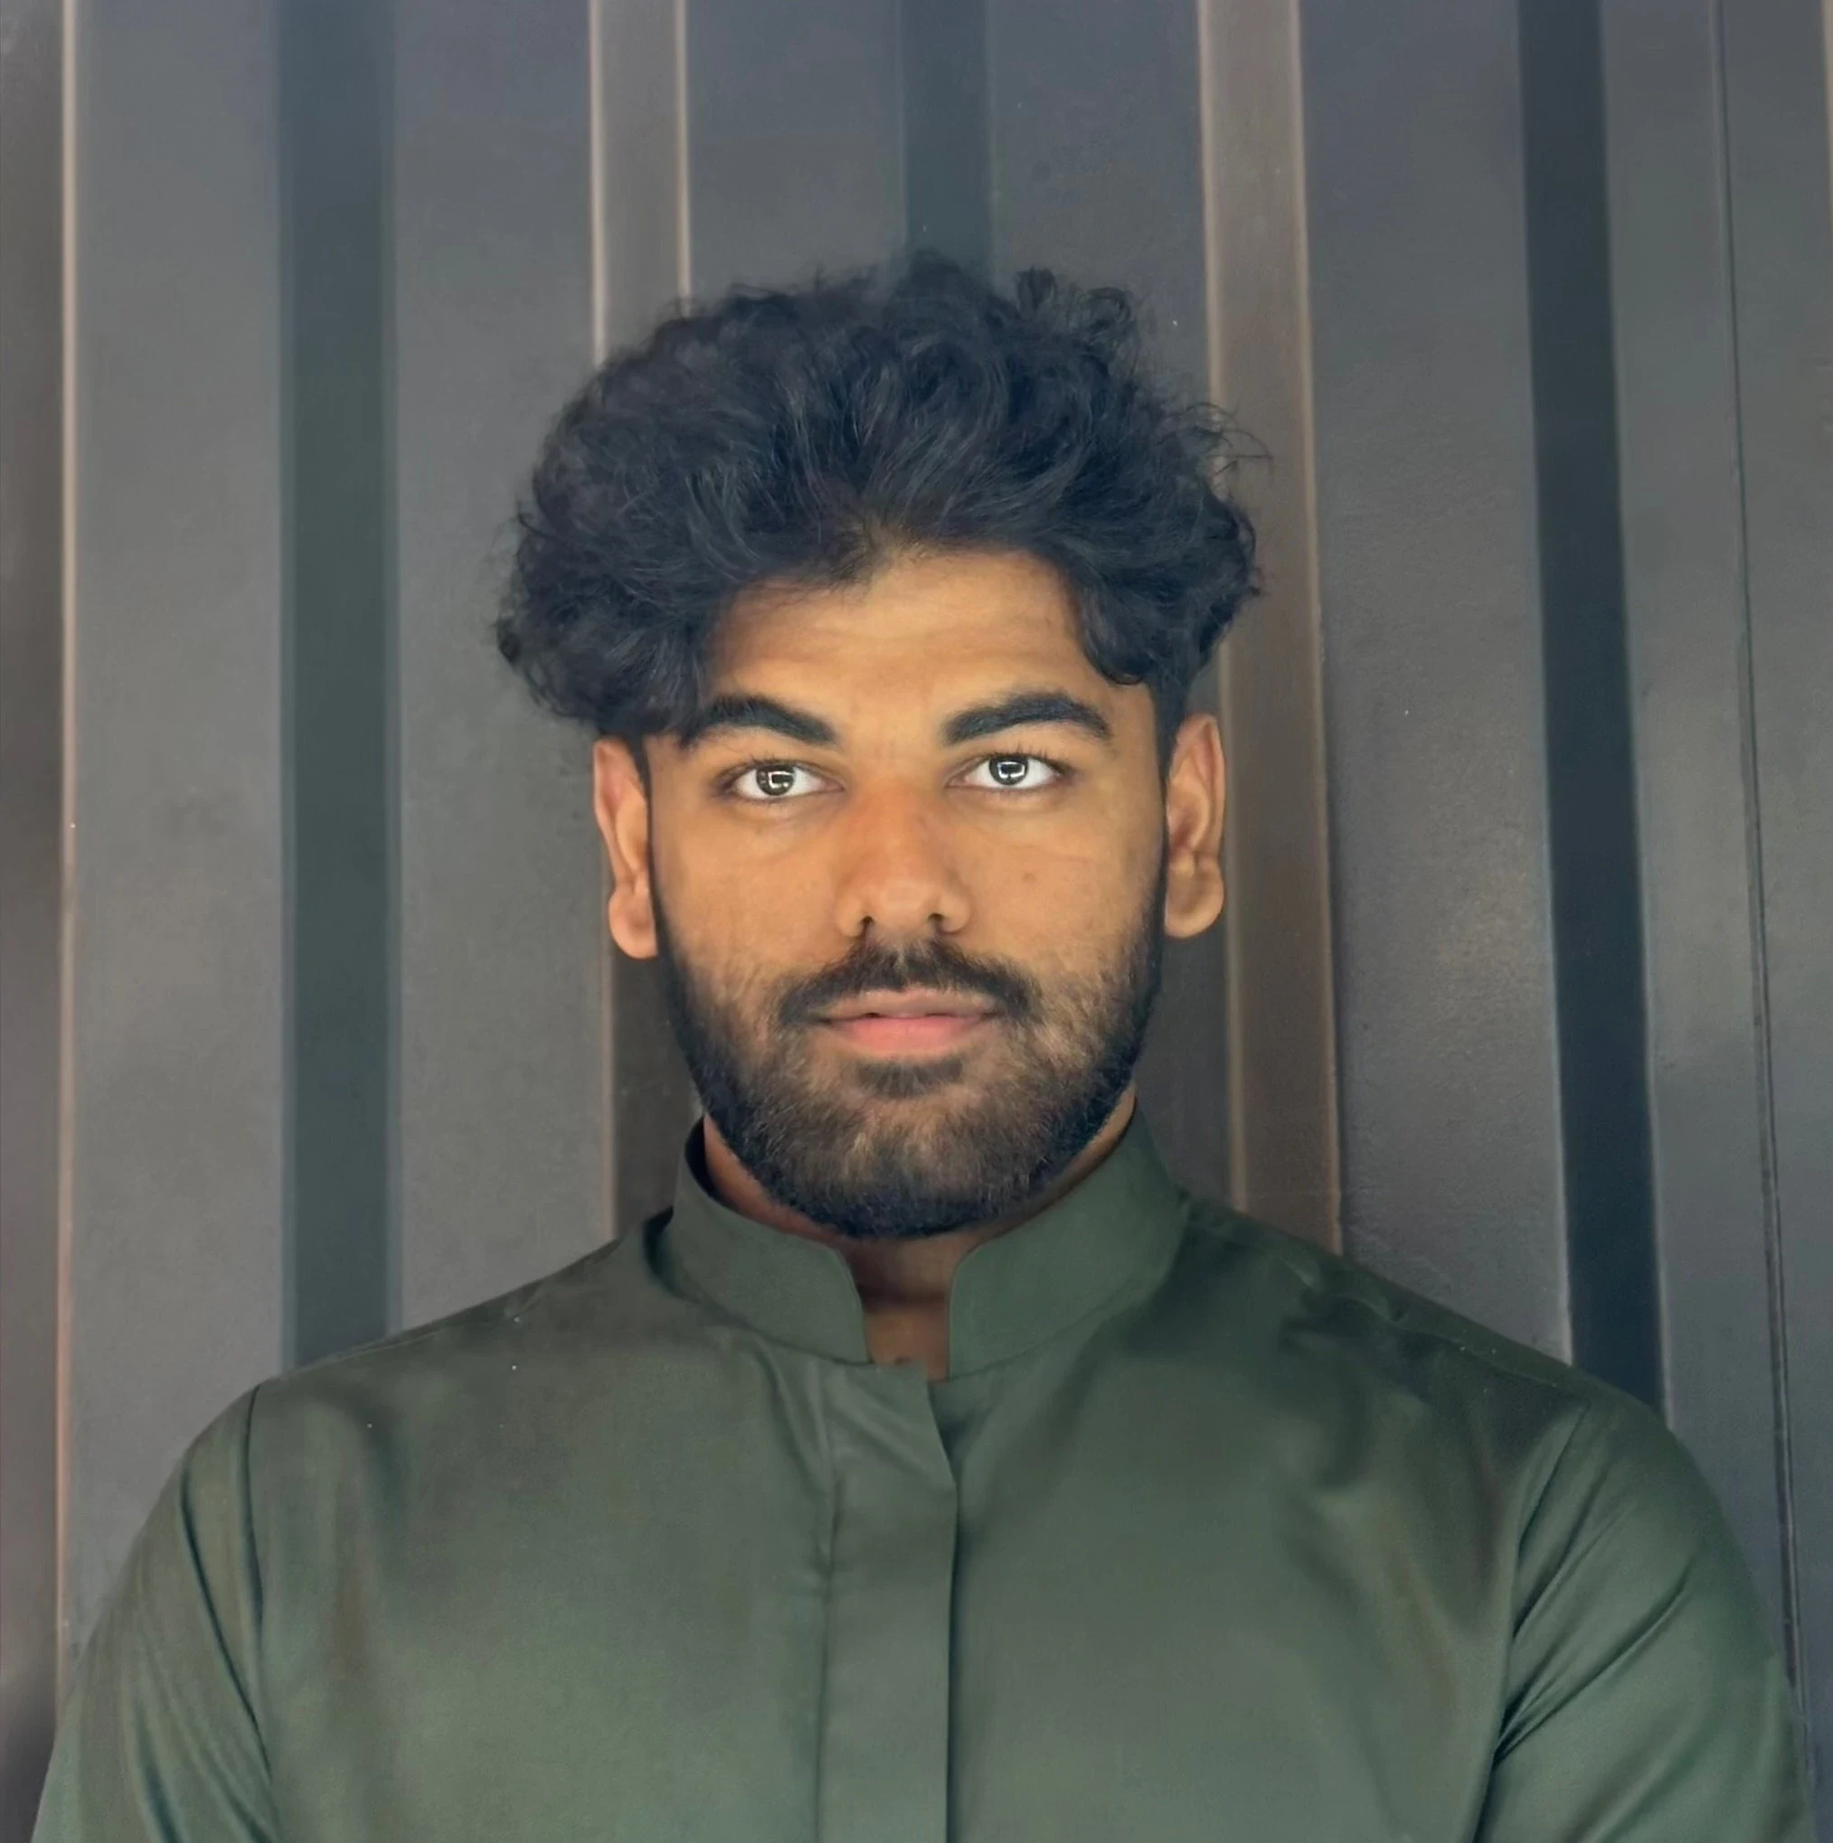
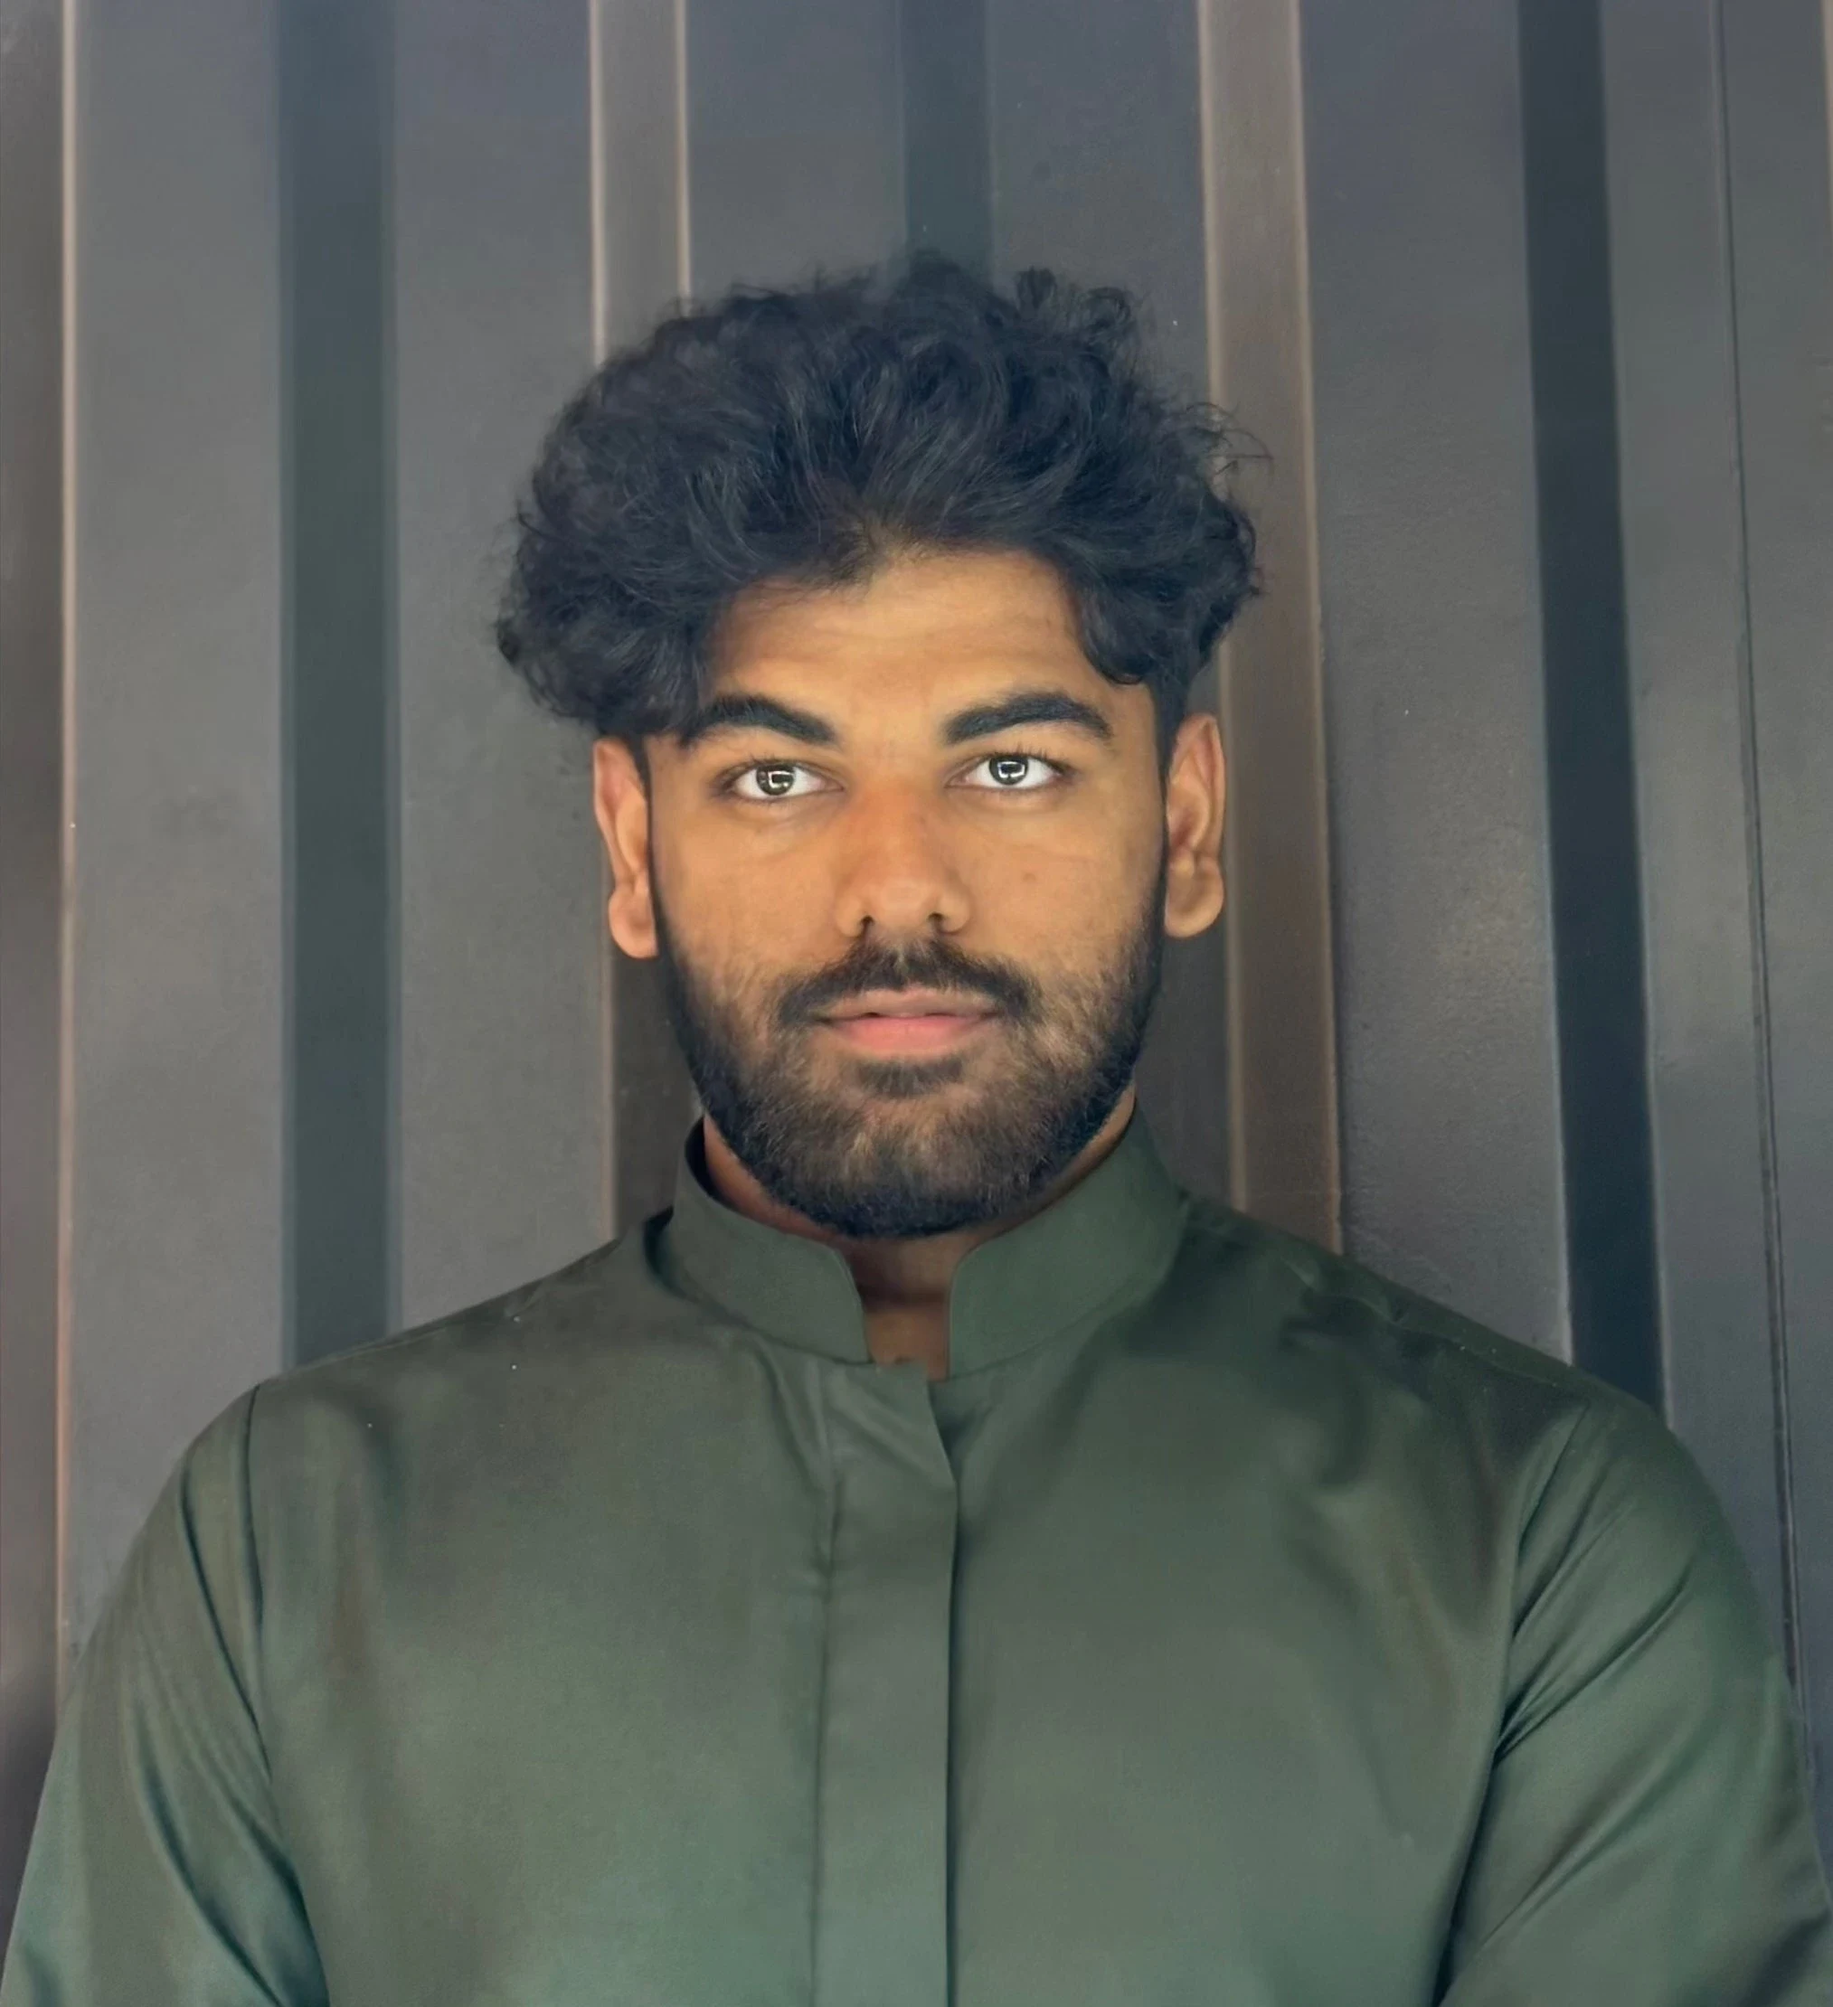
Title updated

diff --git a/app/layout.js b/app/layout.js
@@ -9,7 +9,7 @@ const InterSans = Inter({
 
 export const metadata = {
 	metadataBase: new URL('https://tedx.farookcollege.ac.in'),
-	title: 'TEDxFC X3',
+	title: 'TEDxFC X4',
 	description:
 		'TEDx Farook College is an independently organized TED event serving as a hub of ideas and knowledge for the thinkers of Malabar.',
 	keywords: [
@@ -38,7 +38,7 @@ export const metadata = {
 	},
 	twitter: {
 		card: 'summary_large_image',
-		title: 'TedXFC X3',
+		title: 'TedXFC X4',
 		description:
 			'Join us for innovation and inspiration.',
 		images: ['/twitter-image.jpg'],

diff --git a/app/contact/page.js b/app/contact/page.js
@@ -55,7 +55,7 @@ export default function Contact() {
 		{
 			name: 'Aman Riyas',
 			role: 'Co-organizer',
-			image: '/images/organizers/Aman3.jpeg'
+			image: '/images/organizers/Aman.webp'
 		},
 		{
 			name: 'Anjali T A',
